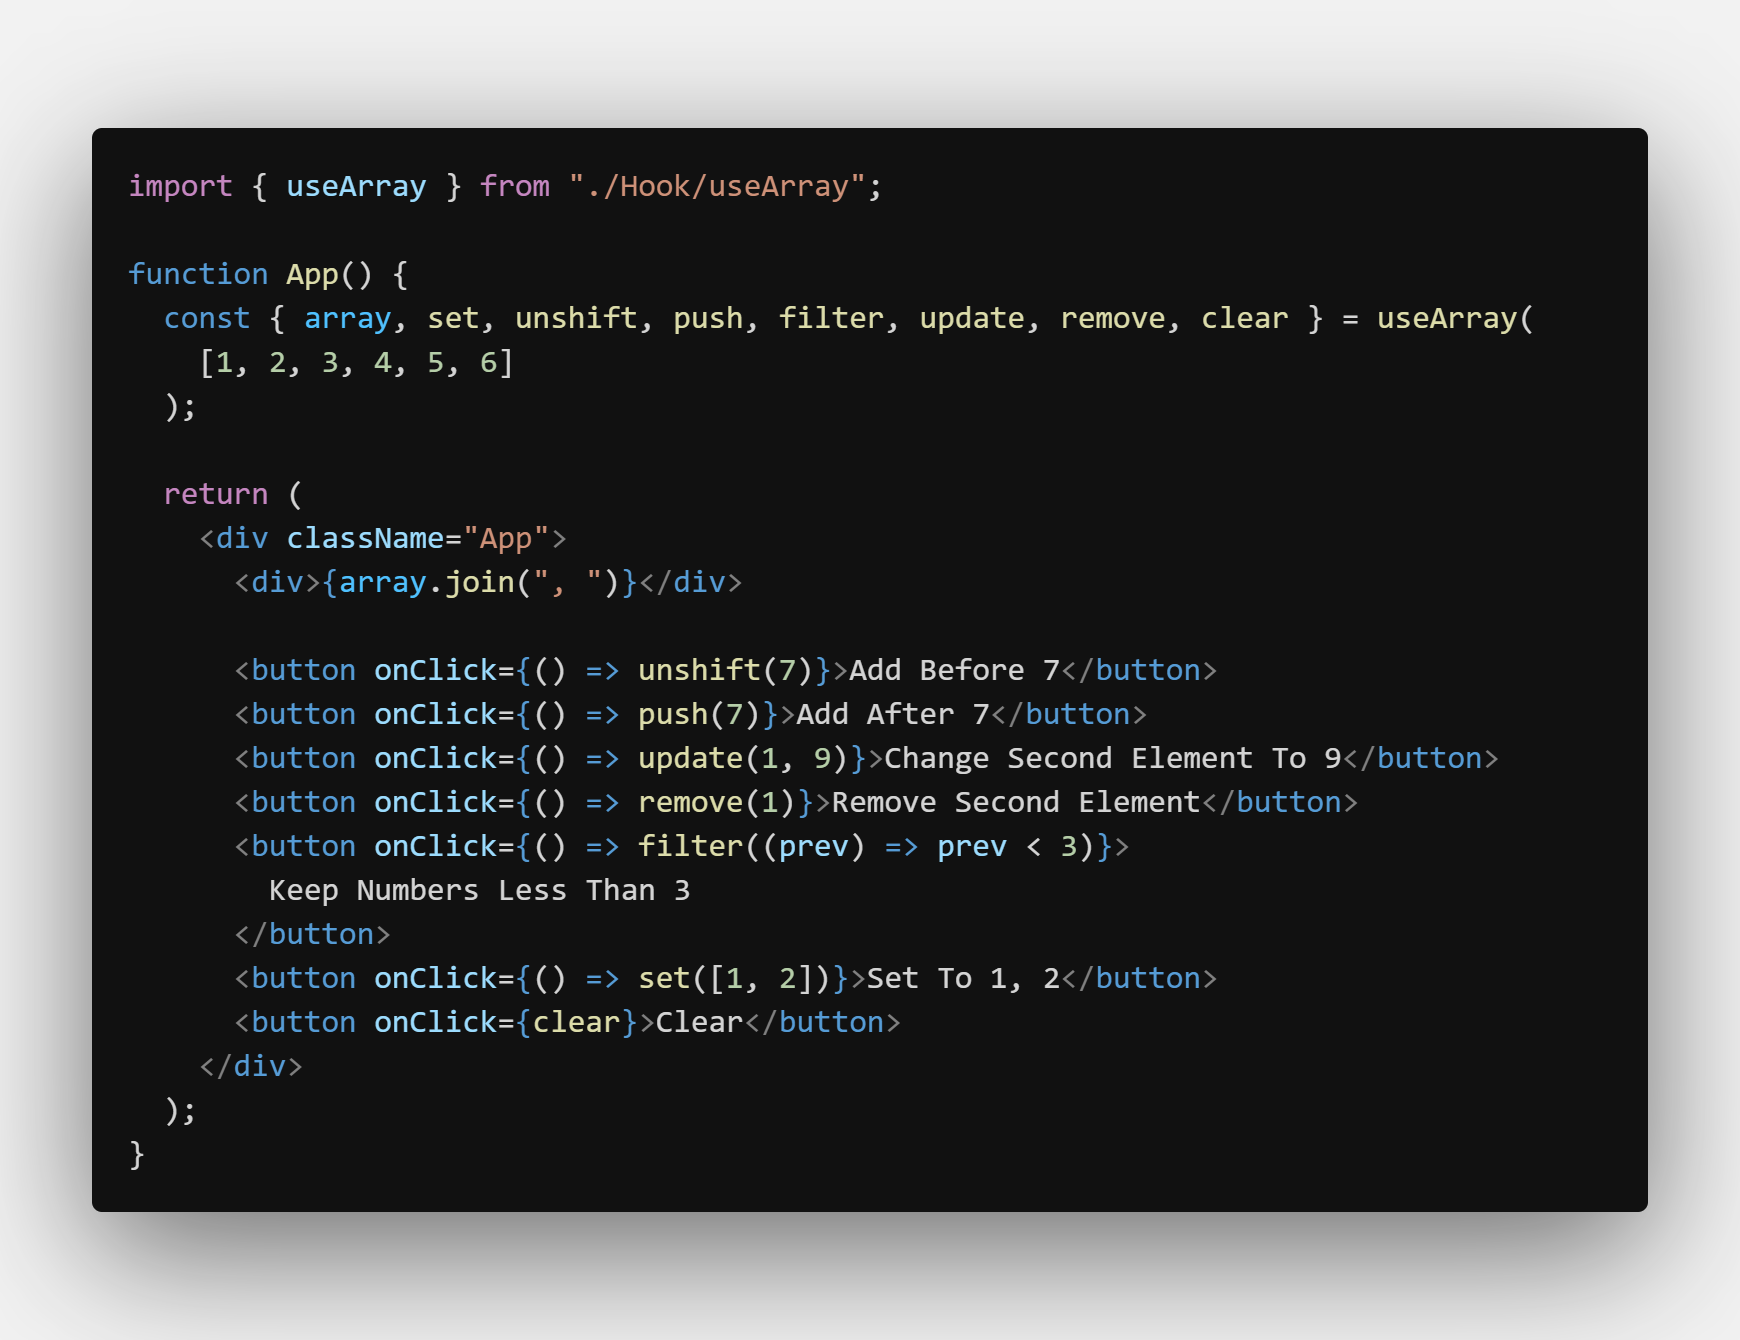
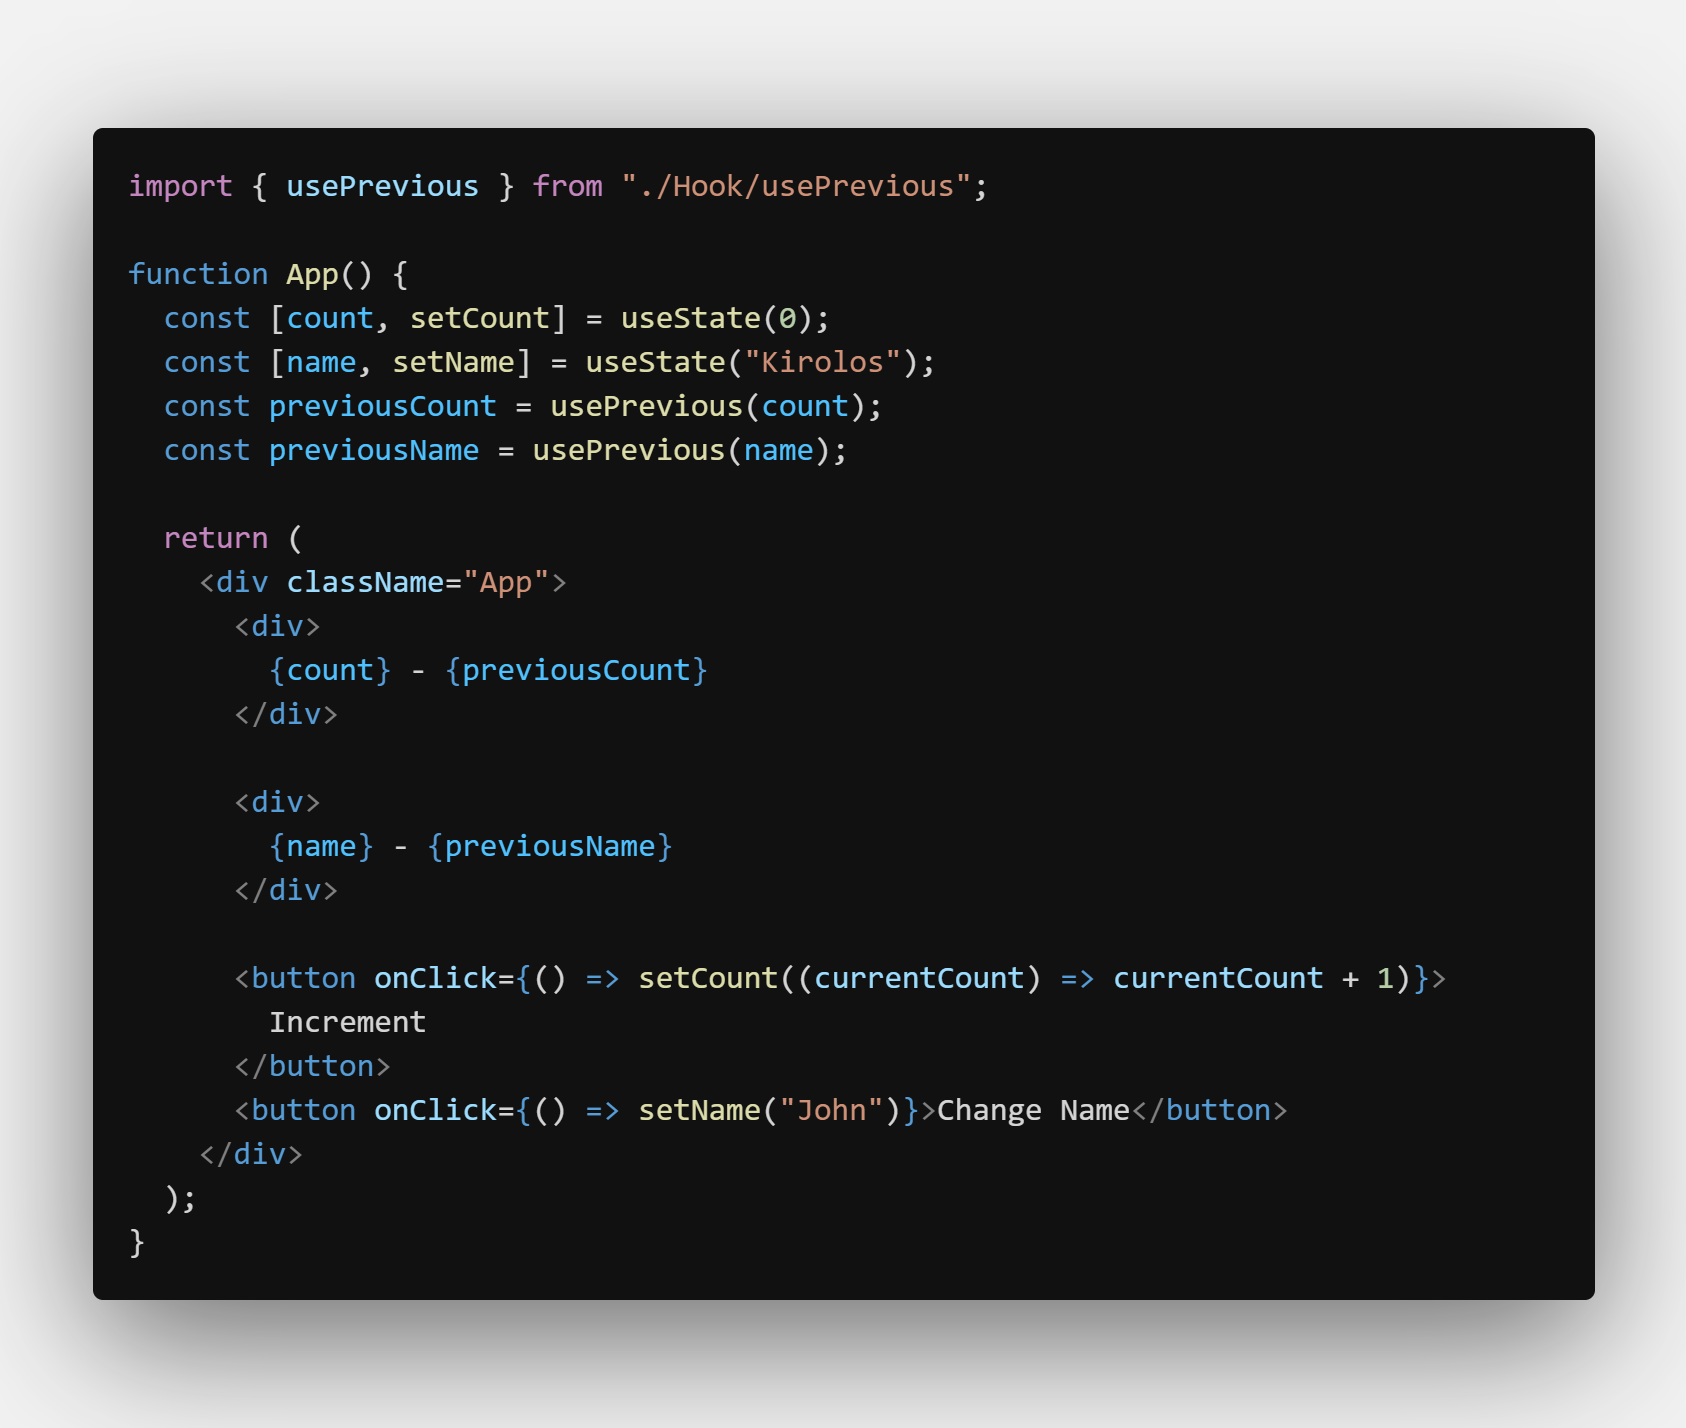
usePrevious

diff --git a/src/App.js b/src/App.js
@@ -1,44 +1,31 @@
-import { useArray } from "./Hook/useArray";
+import { useState } from "react";
+import { usePrevious } from "./Hook/usePrevious";
 
 /**
  * How To Use
- *  - const { array, set, push, filter, update, remove, clear } = useArray(array);
- *
- *	- array: Your Array
- *
- *	- set(newArray): Set New Array
- *
- *	- unshift(element): Add Item To End Of Array
- *
- *	- push(element): Add Item To Start Of Array
- *
- * 	- filter(callback): Filter Array
- *
- * 	- update(index, element): Update Index Value
- *
- * 	- remove(index): Remove Element By Index
- *
- * 	- clear(): Clear All Array Items
+ * 	- const previousValue = usePrevious(value);
  */
 
 function App() {
-	const { array, set, unshift, push, filter, update, remove, clear } = useArray(
-		[1, 2, 3, 4, 5, 6]
-	);
+	const [count, setCount] = useState(0);
+	const [name, setName] = useState("Kirolos");
+	const previousCount = usePrevious(count);
+	const previousName = usePrevious(name);
 
 	return (
 		<div className="App">
-			<div>{array.join(", ")}</div>
+			<div>
+				{count} - {previousCount}
+			</div>
 
-			<button onClick={() => unshift(7)}>Add Before 7</button>
-			<button onClick={() => push(7)}>Add After 7</button>
-			<button onClick={() => update(1, 9)}>Change Second Element To 9</button>
-			<button onClick={() => remove(1)}>Remove Second Element</button>
-			<button onClick={() => filter((prev) => prev < 3)}>
-				Keep Numbers Less Than 3
+			<div>
+				{name} - {previousName}
+			</div>
+
+			<button onClick={() => setCount((currentCount) => currentCount + 1)}>
+				Increment
 			</button>
-			<button onClick={() => set([1, 2])}>Set To 1, 2</button>
-			<button onClick={clear}>Clear</button>
+			<button onClick={() => setName("John")}>Change Name</button>
 		</div>
 	);
 }

diff --git a/src/Hook/usePrevious.js b/src/Hook/usePrevious.js
@@ -1,0 +1,18 @@
+import { useRef } from "react";
+
+/**
+ * How To Use
+ * 	- const previousValue = usePrevious(value);
+ */
+
+export function usePrevious(value) {
+	const currentRef = useRef(value);
+	const previousRef = useRef();
+
+	if (currentRef.current !== value) {
+		previousRef.current = currentRef.current;
+		currentRef.current = value;
+	}
+
+	return previousRef.current;
+}

diff --git a/README.md b/README.md
@@ -1,36 +1,20 @@
-# useArray
+# usePrevious
 
-- Help You Handle Arrays In State Easy
+- Help You Save Previous Value
 
 ---
 
 ### How To Use
 
-    		- const { array, set, push, filter, update, remove, clear } = useArray(array);
-
-    		- array: Your Array
-
-    		- set(newArray): Set New Array
-
-    		- unshift(element): Add Item To End Of Array
-
-    		- push(element): Add Item To Start Of Array
-
-    		- filter(callback): Filter Array
-
-    		- update(index, element): Update Index Value
-
-    		- remove(index): Remove Element By Index
-
-    		- clear(): Clear All Array Items
+    		- const previousValue = usePrevious(value);
 
 ---
 
 ## Screenshots
 
-#### useArray Hook
+#### usePrevious Hook
 
-![useArray Hook](images/useArray.png "useArray Hook")
+![usePrevious Hook](images/usePrevious.png "usePrevious Hook")
 
 #### Example
 
